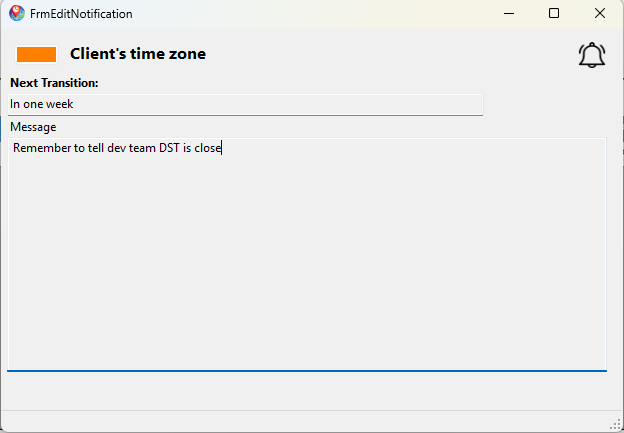
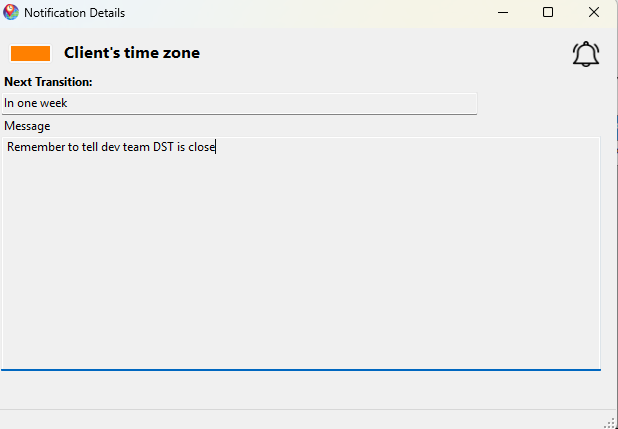
Fix notification logic and update UI behavior
Refined the `NotificationPresenter` to set the title and hide
delete/save buttons when displaying notification details.
Populated `_editView` fields with data from the response.

Corrected date comparison logic in `TimeZoneNotifierService`
to ensure proper matching of `NotifyDate` fields. Updated
`NotifyDate` assignment to use `NextNotificationDate` instead
of `DateTime.UtcNow`.

Added a new test `CreateNotification_ShouldCreate` to
`TimeZoneNotifierServiceTests` to validate notification
creation functionality.

Updated `sc-notifview.png` to reflect UI changes.

diff --git a/DSTN.Application/Services/TimeZoneNotifier/TimeZoneNotifierService.cs b/DSTN.Application/Services/TimeZoneNotifier/TimeZoneNotifierService.cs
@@ -242,9 +242,9 @@ namespace DSTN.Application.Services.TimeZoneNotifier
                             (
                             n.NotifyDate.Month == nextNotificationDate.Month
                             &&
-                            n.NotifyDate.Month == nextNotificationDate.Day
+                            n.NotifyDate.Day == nextNotificationDate.Day
                             &&
-                            n.NotifyDate.Month == nextNotificationDate.Year
+                            n.NotifyDate.Year == nextNotificationDate.Year
                             )
                     );
                 int countNotificationsForTransitions = await UnitOfWork.Notifications.CountAsync(countNotificationsForTransitionsQuery);
@@ -276,7 +276,7 @@ namespace DSTN.Application.Services.TimeZoneNotifier
                     CreatedAt = DateTime.UtcNow,
                     DSTTransition = observedTimeZone.NextTransitionDate!.Value,
                     Message = observedTimeZone.Comments is not null ? observedTimeZone.Comments : observedTimeZone.DisplayName,
-                    NotifyDate = DateTime.UtcNow,
+                    NotifyDate = observedTimeZone.NextNotificationDate!.Value,
                     ReadAt = DateTime.UtcNow,
                     TimeZone = observedTimeZone
                 };

diff --git a/DSTN.AdminApp.WinForms/Forms/Notifications/NotificationPresenter.cs b/DSTN.AdminApp.WinForms/Forms/Notifications/NotificationPresenter.cs
@@ -92,6 +92,7 @@ namespace DSTN.AdminApp.WinForms.TimeZones
                 if (response.Status == ResultStatus.Success)
                 {
 
+                    _editView.Title = "Notification Details";
                     _editView.ShowDeleteButton = false;
                     _editView.ShowSaveButtom = false;
                     var data = response.Data;

diff --git a/DSTN.Application.Tests/Services/TimeZoneNotifier/TimeZoneNotifierServiceTests.cs b/DSTN.Application.Tests/Services/TimeZoneNotifier/TimeZoneNotifierServiceTests.cs
@@ -269,6 +269,9 @@ namespace DSTN.Application.Tests
 
         }
 
+
+
+
         #endregion
 
         [Fact]
